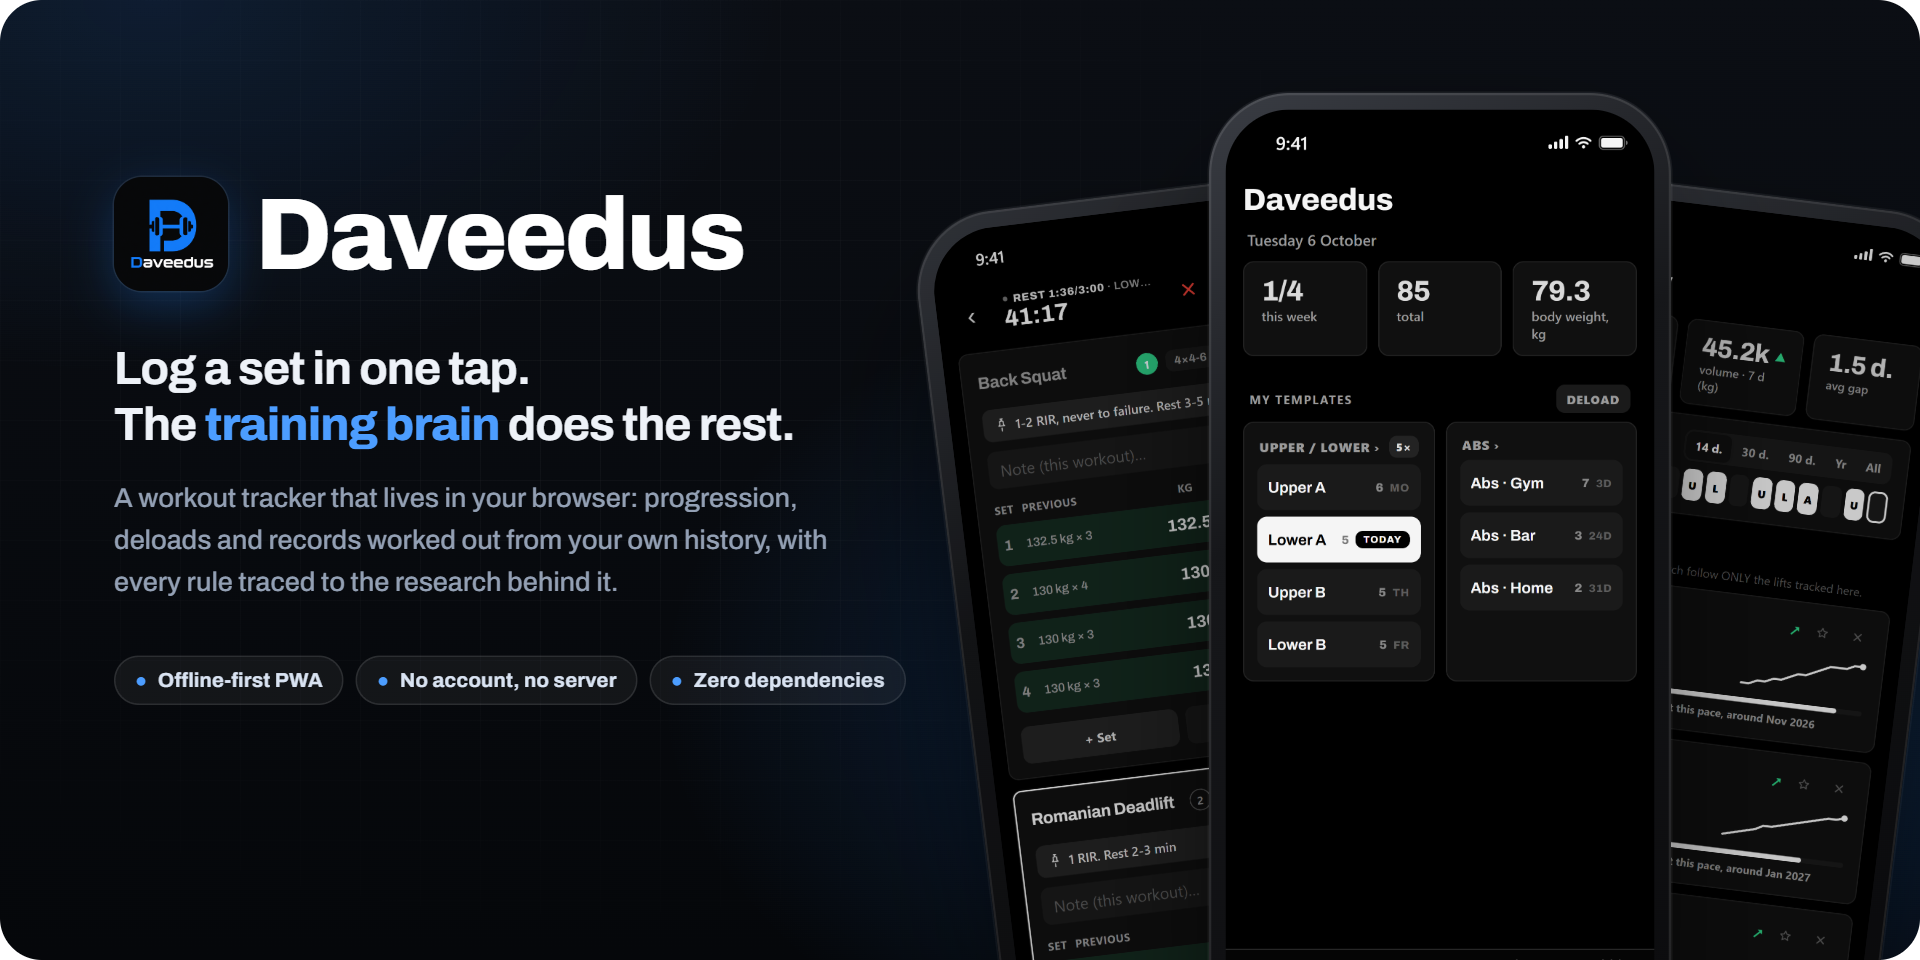
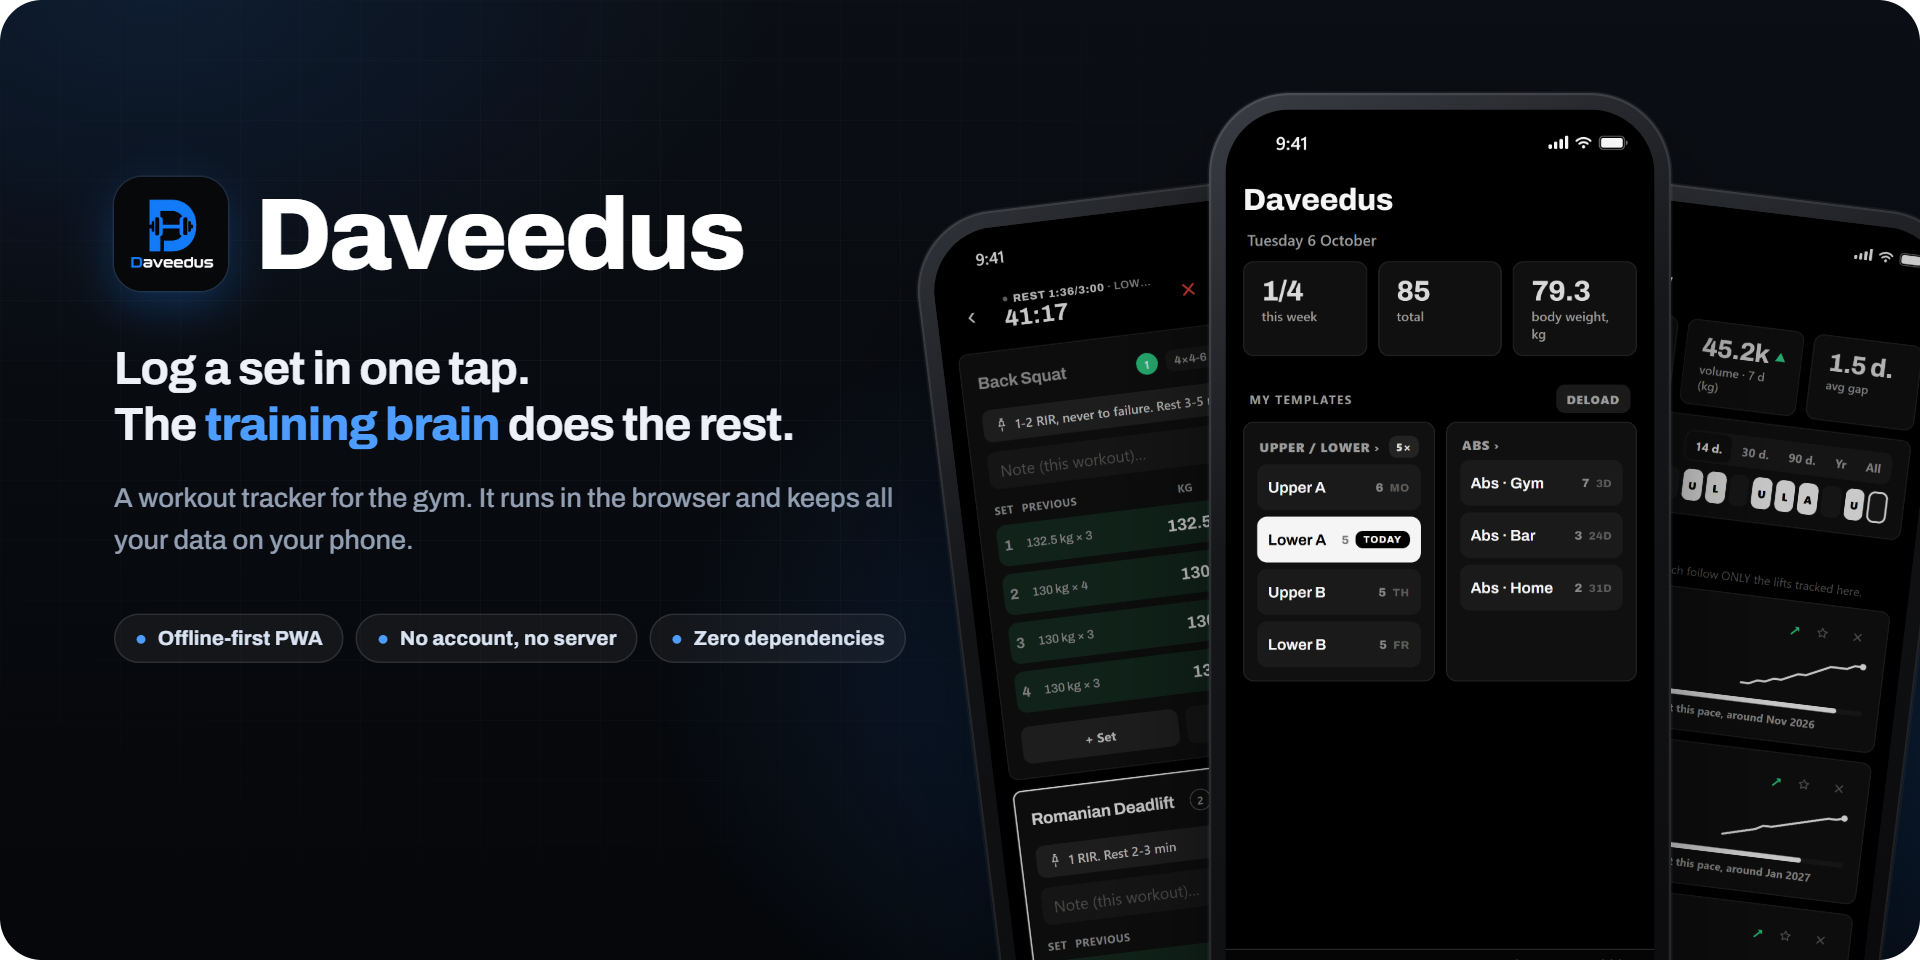
readme: plainer words, no personal name
The README read like a brochure. It now says what the app does in plain
sentences: shorter feature lines without a bold slogan on each, simpler
captions, a short Research section instead of "Evidence, not opinions",
and "Tech" instead of "Under the hood". The hero's small print is a
plain sentence too.

The author's name is gone from the README (the license line and the
"Built by" line); the LICENSE file itself is unchanged.

Changed region(s): [[0.0625, 0.5, 0.4688, 0.625], [0.0625, 0.6562, 0.4688, 0.7188]]

diff --git a/README.md b/README.md
@@ -1,13 +1,13 @@
 <p align="center">
-  <a href="https://dovjonikas.github.io/daveedus/"><img src="shots/hero.png" alt="Daveedus - log a set in one tap, the training brain does the rest" width="100%"></a>
+  <a href="https://dovjonikas.github.io/daveedus/"><img src="shots/hero.png" alt="Daveedus workout tracker" width="100%"></a>
 </p>
 
 <p align="center">
   <a href="https://dovjonikas.github.io/daveedus/"><b>Open the app</b></a>
   &nbsp;·&nbsp; <a href="#install">Install</a>
-  &nbsp;·&nbsp; <a href="#what-it-does">Features</a>
-  &nbsp;·&nbsp; <a href="docs/RESEARCH-TRAINING.md">The evidence</a>
-  &nbsp;·&nbsp; <a href="#under-the-hood">Under the hood</a>
+  &nbsp;·&nbsp; <a href="#features">Features</a>
+  &nbsp;·&nbsp; <a href="#research">Research</a>
+  &nbsp;·&nbsp; <a href="#tech">Tech</a>
 </p>
 
 <p align="center">
@@ -18,20 +18,20 @@
   <img alt="Local-first" src="https://img.shields.io/badge/data-local--first-2ea44f.svg">
 </p>
 
-**Daveedus** is a workout tracker for people who lift. Logging has to be instant, because nobody types between heavy sets, and the decisions have to be right, because a bad suggestion costs a training week. So the set row takes one tap, and behind it sits a training brain: double progression, a wave for a stalled lift, deloads earned from performance, eased-in comebacks after a break, and trend lines that refuse to read noise as progress. Every threshold it uses is traced to a study, a coaching consensus or a stated inference in [the evidence document](docs/RESEARCH-TRAINING.md).
+Daveedus is a workout tracker that runs in the browser. You add it to your home screen, it works offline, and all your data stays on the phone. There is no account and no server.
 
-It runs entirely in the browser, installs to the home screen, works offline and keeps every number on the device. No account, no ads, no server.
+Logging is made for the gym. Your numbers from last time are already filled in, so most sets take one tap. The app also handles progression from your history: double progression, a 4-week wave when a lift stalls, deload suggestions, lighter weights after a break, and trend lines that ignore normal day-to-day ups and downs. The reasoning and sources behind each rule are in [docs/RESEARCH-TRAINING.md](docs/RESEARCH-TRAINING.md).
 
 <table>
   <tr>
-    <td align="center" width="33%"><img src="shots/home.png" width="250" alt="Home screen"><br><b>Home</b><br><sub>Today's workout, the week's plan and the deload gauge</sub></td>
-    <td align="center" width="33%"><img src="shots/workout.png" width="250" alt="A workout in progress"><br><b>Workout</b><br><sub>Last session as the placeholder, one tap per set, the rest clock in the bar</sub></td>
-    <td align="center" width="33%"><img src="shots/history.png" width="250" alt="History and tracked lifts"><br><b>History</b><br><sub>Rhythm, tracked lifts, goals with a date only when the trend earns one</sub></td>
+    <td align="center" width="33%"><img src="shots/home.png" width="250" alt="Home screen"><br><b>Home</b><br><sub>Today's workout and the week's plan</sub></td>
+    <td align="center" width="33%"><img src="shots/workout.png" width="250" alt="A workout in progress"><br><b>Workout</b><br><sub>Last session prefilled, rest timer in the top bar</sub></td>
+    <td align="center" width="33%"><img src="shots/history.png" width="250" alt="History and tracked lifts"><br><b>History</b><br><sub>Training rhythm, tracked lifts and goals</sub></td>
   </tr>
   <tr>
-    <td align="center"><img src="shots/exercise.png" width="250" alt="Exercise detail"><br><b>Every lift</b><br><sub>Records, rep records and the estimated 1RM against your goal</sub></td>
-    <td align="center"><img src="shots/workout-progress.png" width="250" alt="Progress of one workout"><br><b>Every workout</b><br><sub>Volume per session and each lift measured inside that workout alone</sub></td>
-    <td align="center"><img src="shots/weekly-sets.png" width="250" alt="Weekly sets per muscle"><br><b>Every muscle</b><br><sub>Weekly sets against the 10-20 set research band</sub></td>
+    <td align="center"><img src="shots/exercise.png" width="250" alt="Exercise detail"><br><b>Exercise</b><br><sub>Records and estimated 1RM against the goal</sub></td>
+    <td align="center"><img src="shots/workout-progress.png" width="250" alt="Progress of one workout"><br><b>Workout progress</b><br><sub>Volume per session and each lift in it</sub></td>
+    <td align="center"><img src="shots/weekly-sets.png" width="250" alt="Weekly sets per muscle"><br><b>Weekly sets</b><br><sub>Sets per muscle against the 10-20 range</sub></td>
   </tr>
 </table>
 
@@ -39,68 +39,66 @@ It runs entirely in the browser, installs to the home screen, works offline and 
 
 ## Install
 
-- **iPhone** - open [the app](https://dovjonikas.github.io/daveedus/) in Safari → **Share** → **Add to Home Screen**
-- **Android** - open it in Chrome → **⋮** → **Install app**
+- **iPhone:** open [the app](https://dovjonikas.github.io/daveedus/) in Safari → Share → Add to Home Screen
+- **Android:** open it in Chrome → ⋮ → Install app
 
-Half a minute. After that it runs full-screen, works fully offline and updates itself the next time it opens.
+After that it runs full screen, works offline and updates itself.
 
-## What it does
+## Features
 
-### Logging that stays out of the way
+### Logging
 
-- **One tap per set.** Last session's numbers are the placeholders; confirm and the rest clock starts with the target for that exercise.
-- **Honest colours.** A set is green or red for the session so far, never one set against one set: a heavier first set followed by a shorter second one stays green, because you are ahead.
-- **Warm-ups in one tap**, loaded the way a lifter loads a bar and tapered the way the evidence says: empty bar, big plates only, the last one short and at or under 90%. On the way to 140 kg that reads 20 / 60 / 80 / 100 / 120.
-- **The gym details covered:** drop sets, supersets, a plate calculator, machine base weight, bodyweight lifts with your body weight counted, dumbbell pairs, kg or lb.
-- **Alternatives per exercise.** Bench taken? Swap in one tap; each variant keeps its own history.
-- **Max tests when you feel like one.** Warm up to the opener, take three attempts suggested from what the lift shows now, log each one made or missed. A made single is a record, even on a deload day, and a test never bends your training trend.
+- Last session's weights and reps are prefilled. Tap to confirm a set and the rest timer starts.
+- A set turns green or red by comparing the whole session so far with last time, not one set against another.
+- Warm-up sets in one tap, e.g. 20 / 60 / 80 / 100 / 120 kg on the way to 140.
+- Drop sets, supersets, plate calculator, machine starting weight, bodyweight exercises, dumbbell pairs, kg or lb.
+- Alternative exercises for each slot, each with its own history.
+- Max tests with suggested attempts. A made single counts as a record and doesn't affect training trends.
 
-### Progress, measured honestly
+### Progress
 
-- **Estimated 1RM trends** with a dead band wider than day-to-day noise, so a good Tuesday is not called a breakthrough.
-- **Tracked lifts with goals.** A projected date appears only when the trend actually climbs and the data spans enough time to mean it.
-- **Stall watch and the 4-week wave.** When a tracked lift stops setting bests, the app offers a 4-week wave: fives at a base, fours and threes a step heavier each, sixes back at the base, then the next round one step up. It ends itself on a new best or after three rounds without one.
-- **Deloads, earned or planned.** A passive advisor speaks when performance and accumulated weeks say so, or a calendar reminder does it every 6, 7 or 8 weeks. A deload is one light pass over every workout of the main program, kept out of records and trends.
-- **Comebacks eased in.** After a break the suggested weights come back a notch lower and climb back session by session, following the detraining research.
-- **A new program is a new block.** Trends, stalls and the deload check compare a lift only inside the program you run now, so a new program's first quiet week is not read as a verdict on the last one.
-- **Progress per workout and per muscle.** Each workout's own volume trend and lifts, so a bench climbing in Upper A cannot hide one stalling in Upper B, and weekly sets per muscle against the 10-20 set band.
+- Estimated 1RM trend for each lift, with a margin so normal session-to-session noise isn't read as a trend.
+- Tracked lifts with goals. A projected date is shown only when the trend is actually going up.
+- Stall detection, with an optional 4-week wave to get a lift moving again.
+- Deload suggestions based on performance and weeks of training, or a fixed reminder every 6, 7 or 8 weeks.
+- Lower suggested weights after a break, building back up over a few sessions.
+- Progress per workout and weekly sets per muscle.
+- When you start a new program, trends and stall checks start fresh for it.
 
 ### Programs
 
-- **Rotation programs** suggest what is NEXT, a weekday plan marks TODAY, and a star marks the main program that the plan and the deload follow.
-- **Free-pick splits** (gym / bar / home) skip rotation and deload and show how often and how long ago instead.
-- **Level ladders** for bodyweight work, from knee raises to toes-to-bar: two clean sessions at the top of the range and the next level loads itself.
-- **Programs side by side.** Compare blocks on length, cadence, volume and every shared lift's change per week, so a 6-week block and a 20-week one answer the same question.
-- **Archive and order.** Finished programs move to an archive with every record kept; the rest go in the order Home should show them.
-- **Share a program** as a short code.
+- Rotation programs show which workout is next; a weekday plan marks today's.
+- Free-pick splits for training in different places (gym / bar / home).
+- Level ladders for bodyweight exercises, e.g. knee raise up to toes-to-bar.
+- Compare programs side by side.
+- Archive old programs and reorder the rest.
+- Share a program as a short code.
 
 ## Your data
 
-Everything is stored on the device, in two places at once. If one breaks, the app restores from the other.
+Everything is saved on the device twice (localStorage and IndexedDB), so if one copy breaks the other restores it.
 
-- **Backup code** - copy it now and then and keep it somewhere safe; it survives a lost phone.
-- **Cloud sync** (optional) - every finished workout goes to your own private GitHub repository. Your repository, your token; without it nothing ever leaves the device. On a new phone, connect and tap **Restore from cloud**. A device that has never synced never replaces an existing backup without asking, a restore shows what it will bring before it does, and the repository only gets a commit when the data actually changed.
-- **CSV export** - tidy per-set data for Excel or anything else.
+- **Backup code:** copy it now and then and keep it somewhere safe.
+- **Cloud sync (optional):** saves to your own private GitHub repository after each workout. On a new phone, connect and tap Restore from cloud. Without it, nothing leaves the device.
+- **CSV export** of every set, for Excel or anything else.
 
-## Evidence, not opinions
+## Research
 
-The training brain does not guess. Each rule names where its numbers come from and how strong that evidence is, from strong (meta-analyses, a Delphi consensus of coaches) down to folk practice and plain inference, and says where the evidence stops:
+Where possible the numbers come from studies and coach surveys. Where the evidence is weak or missing, the docs say so.
 
-- [**docs/RESEARCH-TRAINING.md**](docs/RESEARCH-TRAINING.md) - volume, effort, frequency, rest, load and rep ranges, estimated 1RM and its noise floor, trends, waves, deloads, layoffs, warm-ups, ladders, and what deliberately was not built.
-- [**docs/RESEARCH-APP.md**](docs/RESEARCH-APP.md) - why people stop logging, what feedback does to motivation, what a set row must get right, and why there are no streaks, points or per-set effort ratings.
+- [docs/RESEARCH-TRAINING.md](docs/RESEARCH-TRAINING.md): volume, effort, frequency, rest, rep ranges, estimated 1RM, trends, waves, deloads, breaks, warm-ups, ladders.
+- [docs/RESEARCH-APP.md](docs/RESEARCH-APP.md): why people stop logging, feedback and motivation, and what was left out on purpose (streaks, points, per-set effort ratings).
 
-## Under the hood
+## Tech
 
 | | |
 |---|---|
-| **Stack** | Plain HTML, CSS and JavaScript. No framework, no build step, no dependencies |
-| **Storage** | `localStorage` mirrored to `IndexedDB`; writes debounced and flushed when the app is backgrounded; on launch the newer copy wins and the other is parked, never destroyed |
-| **Offline** | A service worker caches each release and swaps in the next one by itself |
-| **Units** | Stored in kilograms, converted only for display, so switching units loses nothing |
-| **Sync** | Optional, to the user's own GitHub repository through the Contents API; identical snapshots are never pushed twice; the token stays on the device and out of every backup code |
-| **Tests** | A `node:test` suite that loads the real app scripts into a sandbox and checks the training brain, the data layer and sync. CI runs it on every push; new rules are checked by breaking them on purpose and watching the tests fail |
-
-The code is split into small per-domain scripts loaded in dependency order. Everything is global by design, because inline handlers resolve against global scope.
+| **Stack** | HTML, CSS and plain JavaScript. No framework, no build step, no dependencies |
+| **Storage** | `localStorage` with an `IndexedDB` mirror; on launch the newer copy is used |
+| **Offline** | Service worker that caches each release and updates on the next launch |
+| **Units** | Stored in kg, converted only for display |
+| **Sync** | Optional, to the user's own GitHub repo via the Contents API. The token stays on the device |
+| **Tests** | `node:test` suite that loads the app scripts in a sandbox; runs in CI on every push |
 
 <details>
 <summary><b>Project structure</b></summary>
@@ -108,38 +106,36 @@ The code is split into small per-domain scripts loaded in dependency order. Ever
 ```
 index.html              App shell and script load order
 css/style.css           Styles: seven skins, each with a dark and a light palette
-js/exercises.js         Built-in exercise database (ids are permanent)
-js/i18n.js              App version and every user-facing string
-js/util.js              Formatting, the volume and 1RM formulas, toasts, skins and theme
-js/state.js             The state object: schema, validation and repair, persistence, units
-js/ui.js                Render core: navigation, top bar, tab bar, sheets, icons
-js/home.js              Home: week plan, reminders, program cards
-js/deload.js            Deload cycle, options sheet, the passive deload advisor
-js/workout.js           The live session: logging, ghosts, warm-ups, waves, comebacks, finish
-js/program.js           Programs, archive, order and the workout editor
-js/exercises-ui.js      Exercise picker, browser, custom exercises, detail view, charts
-js/stats.js             1RM series and trends, tracked lifts, records, rhythm, comparisons
-js/history.js           History list, search, editing, body weight, plate calculator
+js/exercises.js         Built-in exercise database
+js/i18n.js              App version and all UI strings
+js/util.js              Formatting, volume and 1RM formulas, toasts, skins
+js/state.js             State: schema, validation, saving, units
+js/ui.js                Navigation, top bar, tab bar, sheets, icons
+js/home.js              Home screen
+js/deload.js            Deloads and the deload advisor
+js/workout.js           The active workout: logging, warm-ups, waves, finishing
+js/program.js           Programs, archive, order, workout editor
+js/exercises-ui.js      Exercise picker, browser, detail view, charts
+js/stats.js             1RM trends, tracked lifts, records, comparisons
+js/history.js           History, body weight, plate calculator
 js/settings.js          Settings
-js/data.js              Share and backup codes, import, CSV, GitHub cloud sync
-js/boot.js              Startup, rest signal, wake lock, onboarding
-test/                   node:test suite and the sandbox harness (no DOM, no dependencies)
-docs/                   The evidence behind every rule
-sw.js                   Service worker: offline cache and self-update
+js/data.js              Share and backup codes, CSV, cloud sync
+js/boot.js              Startup and onboarding
+test/                   Tests and the sandbox harness
+docs/                   Research notes
+sw.js                   Service worker
 manifest.webmanifest    PWA manifest
-serve.ps1               Zero-dependency local server (PowerShell)
+serve.ps1               Local dev server (PowerShell)
 ```
 
 </details>
 
-**Run locally** - any static file server works; on Windows `powershell -File serve.ps1`, then open `http://localhost:8317`.
+**Run locally:** any static file server works. On Windows: `powershell -File serve.ps1`, then open `http://localhost:8317`.
 
-**Test** - `npm test` (Node 20 or newer, nothing to install).
+**Tests:** `npm test` (Node 20+).
 
-**Release** - bump `APP_VER` in `js/i18n.js` and `CACHE` in `sw.js`, push to `main`, and GitHub Actions runs the tests and publishes to Pages. Installed phones pick up the new files on their next launch.
+**Release:** bump `APP_VER` in `js/i18n.js` and `CACHE` in `sw.js`, then push to `main`. GitHub Actions runs the tests and deploys to Pages.
 
 ## License
 
-[MIT](LICENSE) © 2026 Dovydas Jonikas. Use it, fork it, ship it. Attribution is appreciated, and an issue with feedback even more so.
-
-<p align="center"><sub>Built by <a href="https://github.com/dovjonikas"><b>Dovydas Jonikas</b></a>, who logs every session with it.</sub></p>
+[MIT](LICENSE)
